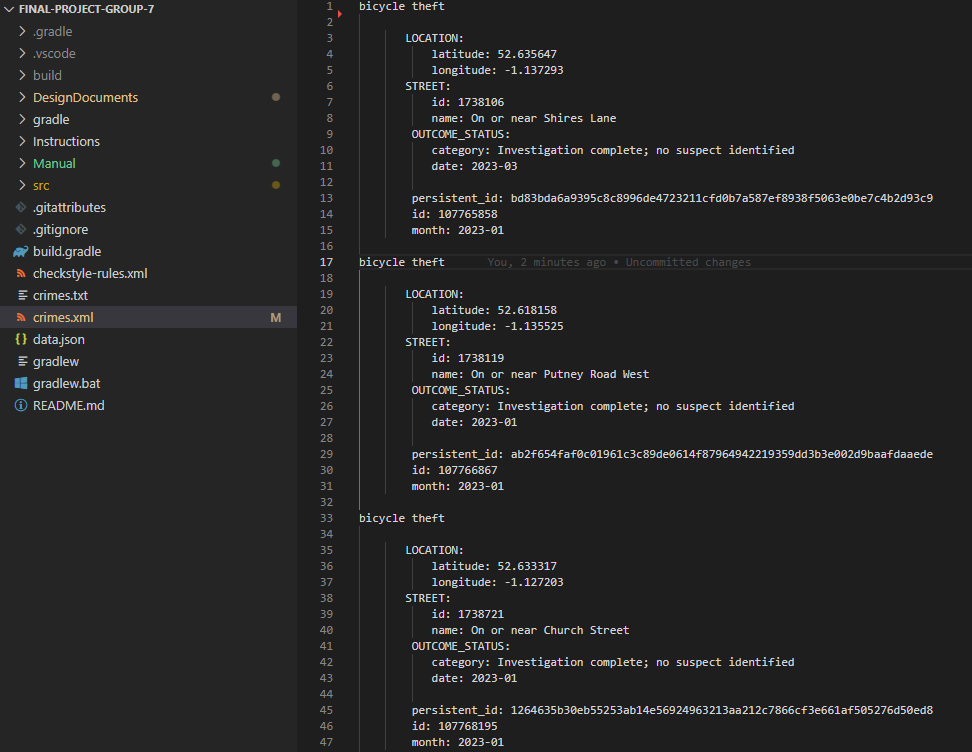
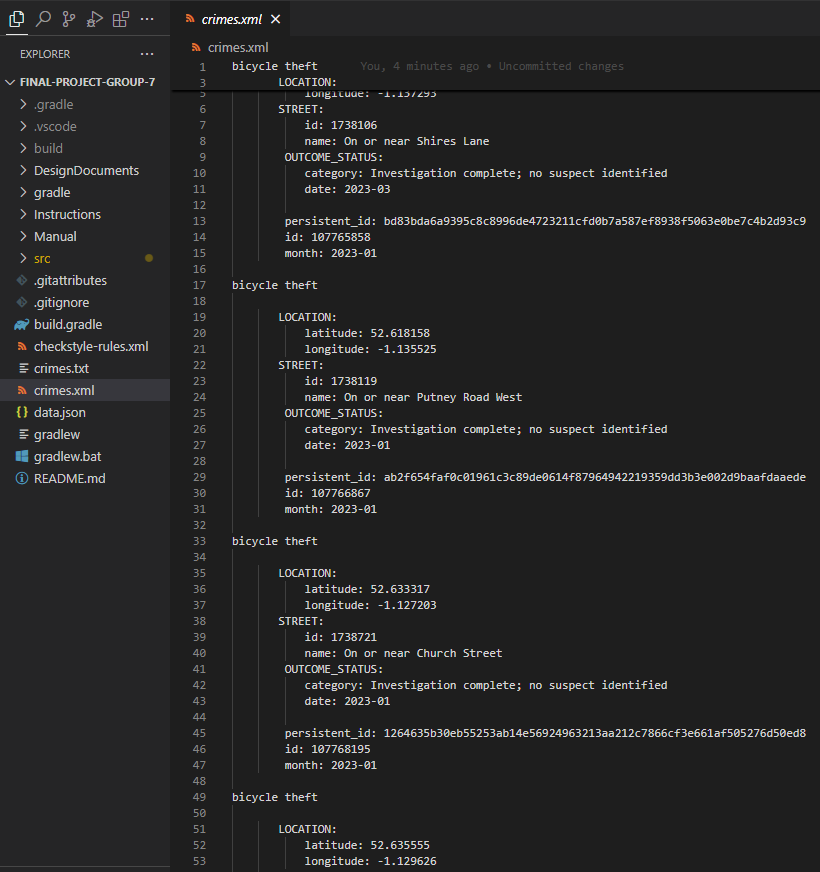
more manual updates

diff --git a/Manual/README.md b/Manual/README.md
@@ -35,3 +35,6 @@ When 'Add Crime' button is clicked the 'Crimes Added to List' section will displ
 
 You can then click the 'Save Crime' button and the current crimes added to the list will be saved to an xml file. (crimes.xml)
 ![save](imgs/8.png)
+
+XML file created upon Saving:
+![xml file](imgs/9.png)
